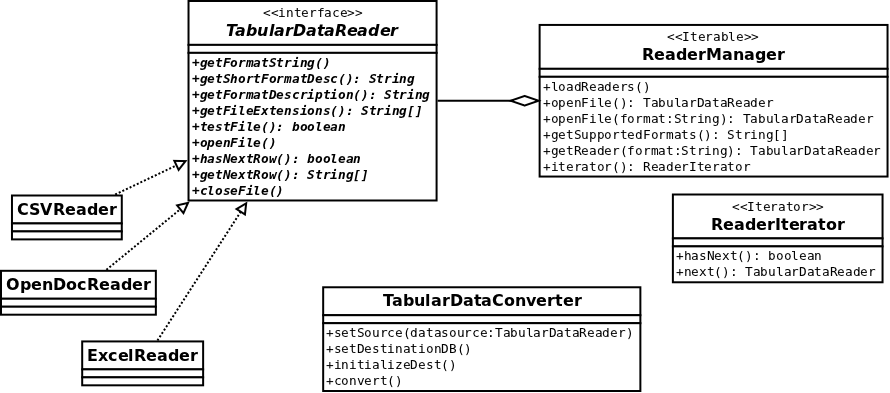
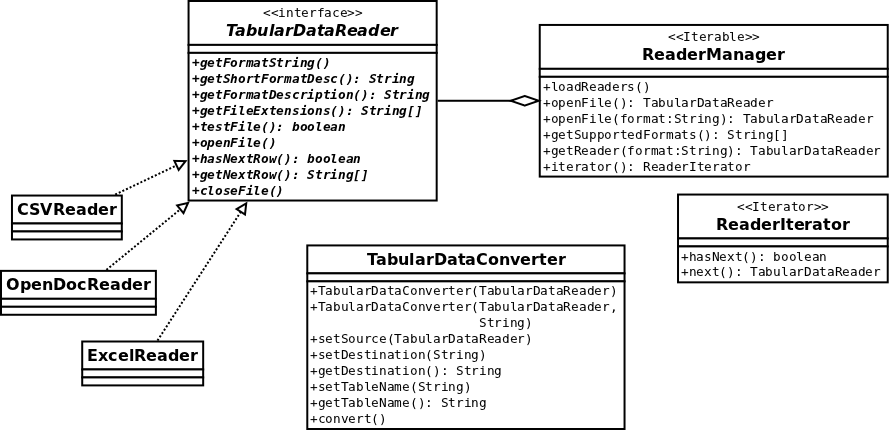
Updated class diagram and added JDBC Sqlite driver.

Changed region(s): [[0.0, 0.0, 1.0, 1.0], [0.2124, 0.6107, 0.2427, 0.6718]]

diff --git a/src/run.java b/src/run.java
@@ -1,5 +1,8 @@
 
 import java.io.FileNotFoundException;
+import java.sql.SQLException;
+import java.util.logging.Level;
+import java.util.logging.Logger;
 import plugins.CSVReader;
 import plugins.OpenDocReader;
 import plugins.ExcelReader;
@@ -52,7 +55,7 @@ public class run
         runReader(reader);        
     }
 
-    public static void main(String[] args) {
+    public static void main(String[] args) throws Exception {
         //runReaders();
         
         // create the ReaderManager and load the plugins
@@ -68,7 +71,17 @@ public class run
         System.out.println();
         
         // open a file and print the data
-        runReader(rm.openFile("test.csv"));
+        //runReader(rm.openFile("test.csv"));
         //runReader(rm.openFile("test.csv", "CSV"));
+        
+        try {
+            TabularDataConverter tdc = new TabularDataConverter(
+                    rm.openFile("test.csv"), "jdbc:sqlite:tempdb.sqlite");
+        
+            tdc.convert();
+        } catch (Exception e) {
+            throw e;
+            //System.out.println(e);
+        }
     }
 }
